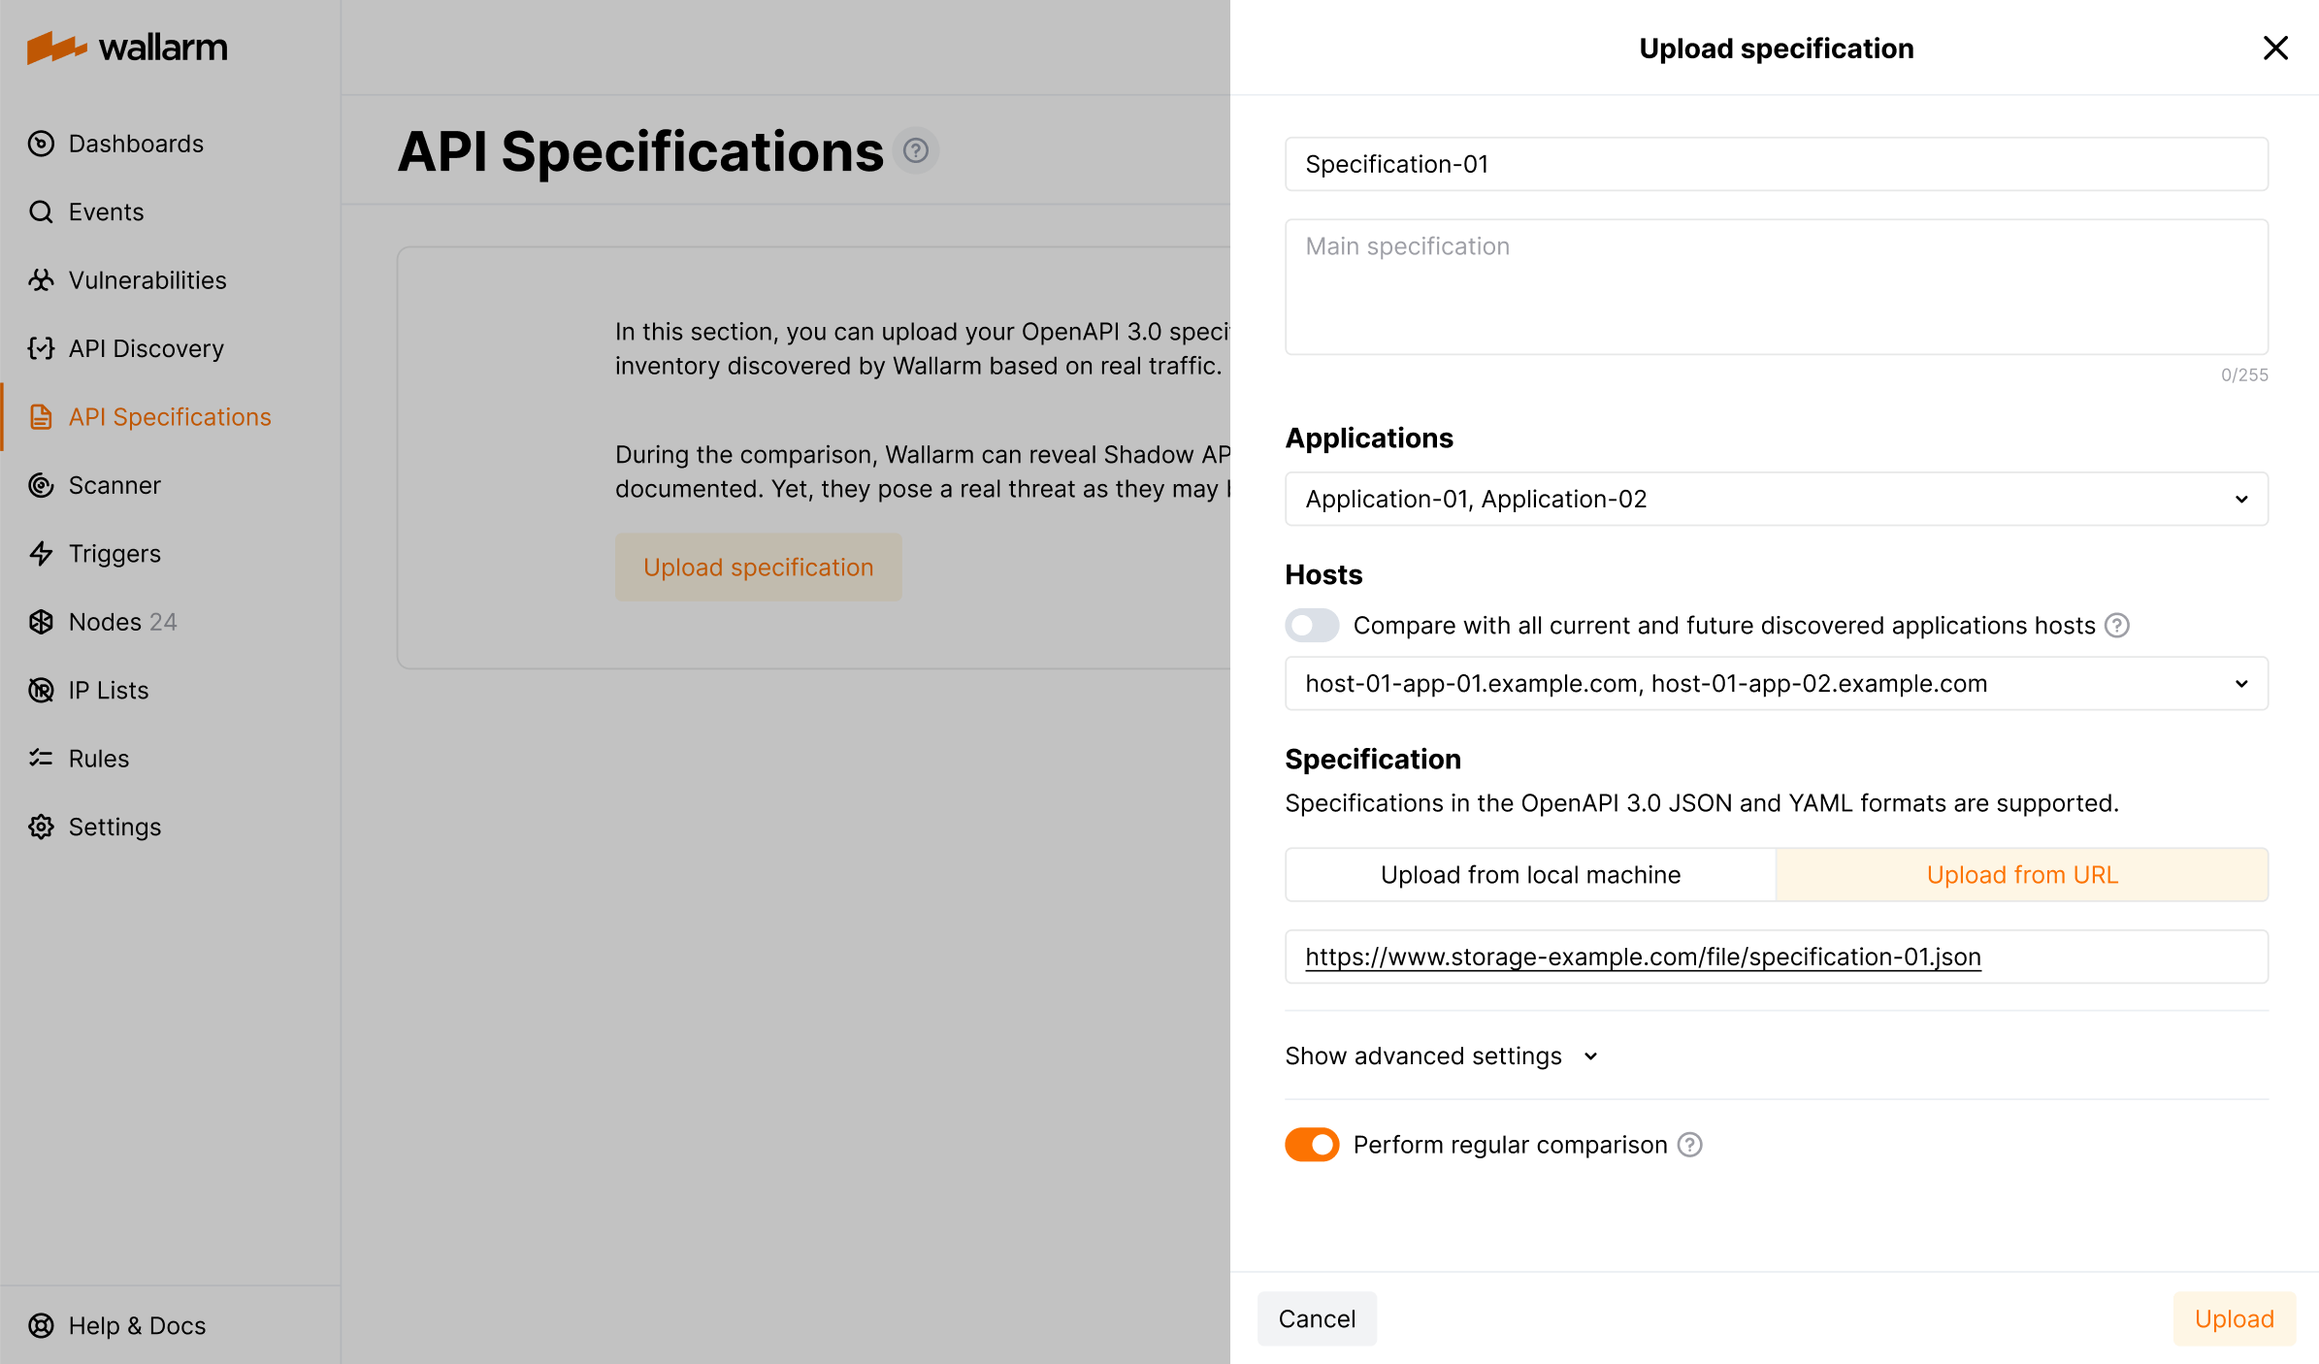
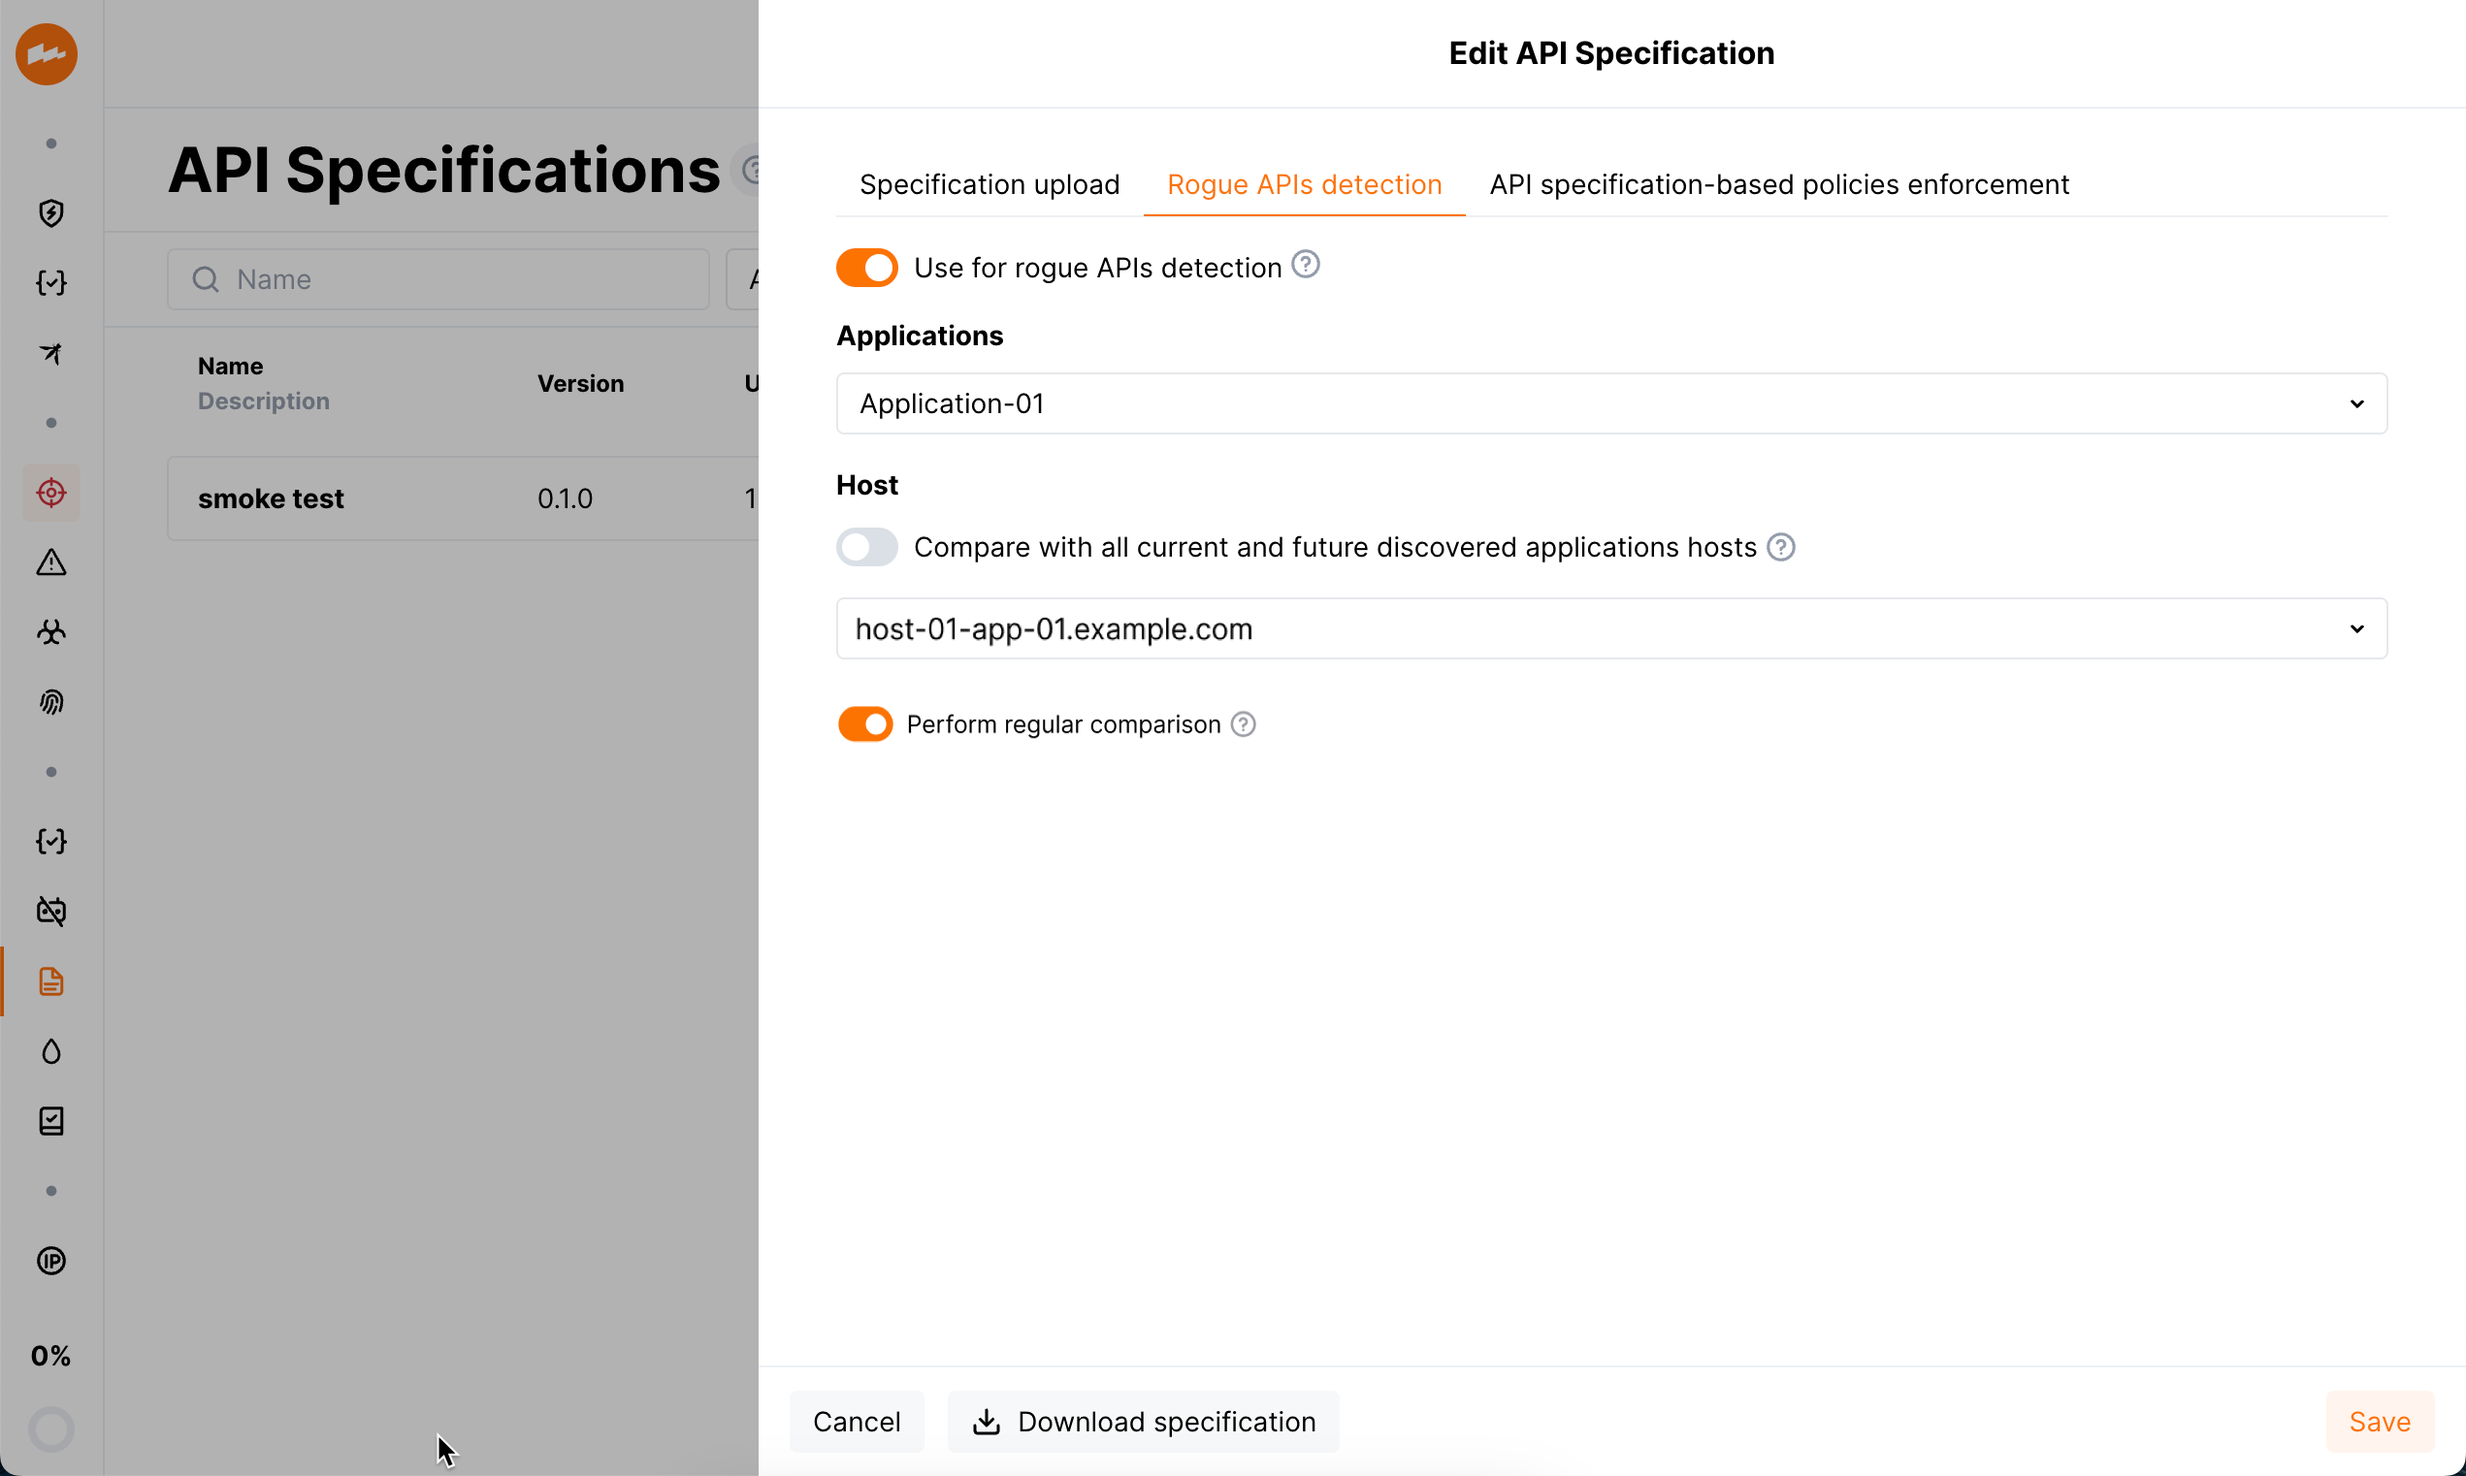
DOCS-2284 Uploading specs for rogue API detection - update

diff --git a/docs/latest/api-discovery/rogue-api.md b/docs/latest/api-discovery/rogue-api.md
@@ -12,7 +12,7 @@ The [API Discovery](overview.md) module automatically identifies shadow, orphan 
 
 ## Monitor rogue APIs on hourly basis
 
-You can upload your specification to perform immediate comparison of its content with endpoints revealed by API Discovery up to the moment. But two things can change in time:
+You can upload your specification to perform one-time comparison of its content with endpoints revealed by API Discovery up to the moment. But two things can change in time:
 
 * Your actual API inventory (changes will be revealed by API Discovery)
 * Your own specification (new versions can arrive)
@@ -23,19 +23,30 @@ To set up monitoring rogue APIs on hourly basis:
 
 1. Navigate to the **API Specifications** section in the [US](https://us1.my.wallarm.com/api-specifications) or [EU](https://my.wallarm.com/api-specifications) Cloud.
 1. Click **Upload specification**.
-1. Select a specification to upload. It must be in the OpenAPI 3.0 JSON or YAML format.
-1. Set comparison parameters:
+1. At the **Specification upload** tab, select a specification to upload. It must be in the OpenAPI 3.0 JSON or YAML format.
+1. Select uploading from URL. If necessary, you can specify a token for authentication.
+1. Decide on whether you need to **Regularly update the specification** (selected by default). This will update the specification every hour.
+1. Click **Upload**. Specification is validated (should be OpenAPI 3.0 JSON or YAML with correct formatting) - if some errors found, fix them and try to re-upload.
 
-    * Application(s) and host(s) - only endpoints related to the selected applications/hosts will be compared. If you select **Compare with all current and future discovered applications hosts**, all hosts (of the selected applications) known now and all hosts that will be discovered in future will be included into comparison.
+    Note that you will not be able to start configuring rogue API detection based on the specification, until its file is successfully uploaded.
 
-        You can change comparison settings at any moment later - after this the comparison will be re‑done providing new results.
+1. Click the **Rogue APIs detection** tab.
 
-    * Select uploading from URL. If necessary, you can specify a token for authentication.
-    * Leave the **Perform regular comparison** option selected (it is by default).
+    !!! info "API policy enforcement"
+        * Besides rogue API detection, specifications may be used for [API policy enforcement](../api-policy-enforcement/overview.md).
+        * Before using the specification for policy enforcement, it is recommended to use it for searching the rogue APIs. This way you will be able to understand how much your specification differs from the actual requests of your clients.
+
+1. Select **Use for rogue APIs detection**. Options are displayed.
+1. Select **Applications** - only hosts related to the selected applications will be available.
+1. Select **Hosts** - only endpoints related to the selected hosts will be searched for rogue APIs. 
+
+    If necessary, select **Compare with all current and future discovered applications hosts** - all hosts (of the selected applications) known now and all hosts that will be discovered in future will be included into comparison.
+
+    You can change comparison settings at any moment later - after this the comparison will be re‑done providing new results.
+
+1. Leave the **Perform regular comparison** option selected (it is by default).
 
     ![API Discovery - API Specifications - uploading API specification to find rogue APIs](../images/about-wallarm-waf/api-discovery/api-discovery-specification-upload.png)
-
-1. Start uploading.
 
 As uploading is finished, the number of rogue (shadow, orphan and zombie) APIs will be displayed for each specification in the list of **API Specifications**.
 
@@ -51,7 +62,7 @@ Shadow APIs are also displayed among the riskiest endpoints at the [API Discover
 
 ## Find rogue APIs by one-time comparison
 
-You can upload your specification to perform immediate one-time comparison of its content with endpoints revealed by API Discovery up to the moment. To do so, in the comparison settings, select to upload from local machine or deselect the **Perform regular comparison** option for specification uploaded from URL.
+You can upload your specification to perform one-time comparison of its content with endpoints revealed by API Discovery up to the moment. To do so, in the comparison settings, select to upload from local machine or deselect the **Perform regular comparison** option for specification uploaded from URL.
 
 Consider the following:
 
